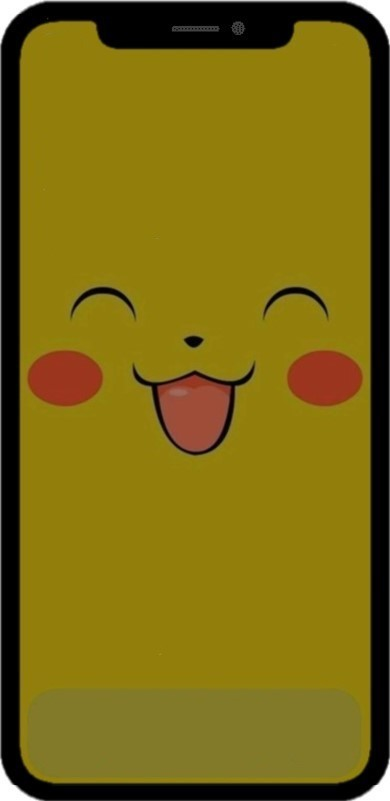
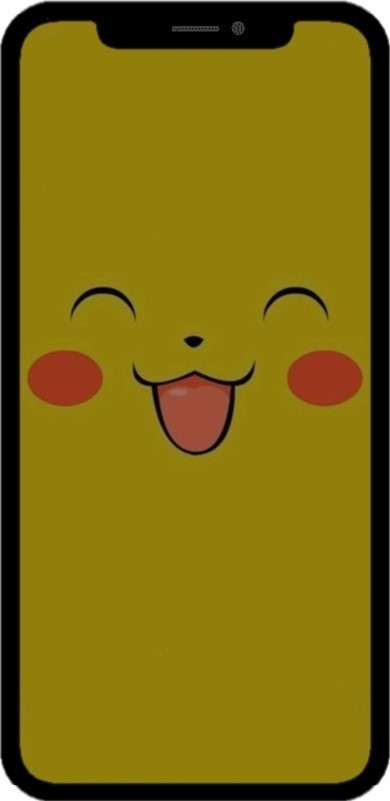
Add files via upload

Changed region(s): [[0.0615, 0.8427, 0.9231, 0.9675]]

diff --git a/109-1Frontend/HW2/css/icon.css b/109-1Frontend/HW2/css/icon.css
@@ -15,6 +15,20 @@
     background-position-y: center;
 }
 
+.iphone-bar
+{
+    background-image: url(../img/icon/iphone\ bar.jpg);
+    z-index: -2;
+    height: 82px;
+    width: 320px;
+    background-size: 100%;
+    background-repeat:no-repeat;
+    background-position-x: center;
+    background-position-y: center;
+    margin-top: -70px;
+    margin-left: 27px;
+}
+
 .facebook
 {
     background-image: url(../img/icon/facebook.jpg);
@@ -221,7 +235,7 @@
     color:white;
     font-family: 'Franklin Gothic Medium', 'Arial Narrow', Arial, sans-serif;
     font-size: 12px;
-    z-index: 1;
+    z-index: 3;
 }
 
 .facebook-f

diff --git a/109-1Frontend/HW2/index.html b/109-1Frontend/HW2/index.html
@@ -24,6 +24,7 @@
         <div class="message"></div>
         <div class="mail"></div>
         <div class="safari"></div>
+        <div class="iphone-bar"></div>
     </div>
     <div class="forfonts">
         <div class="fonts facebook-f">Facebook</div>
